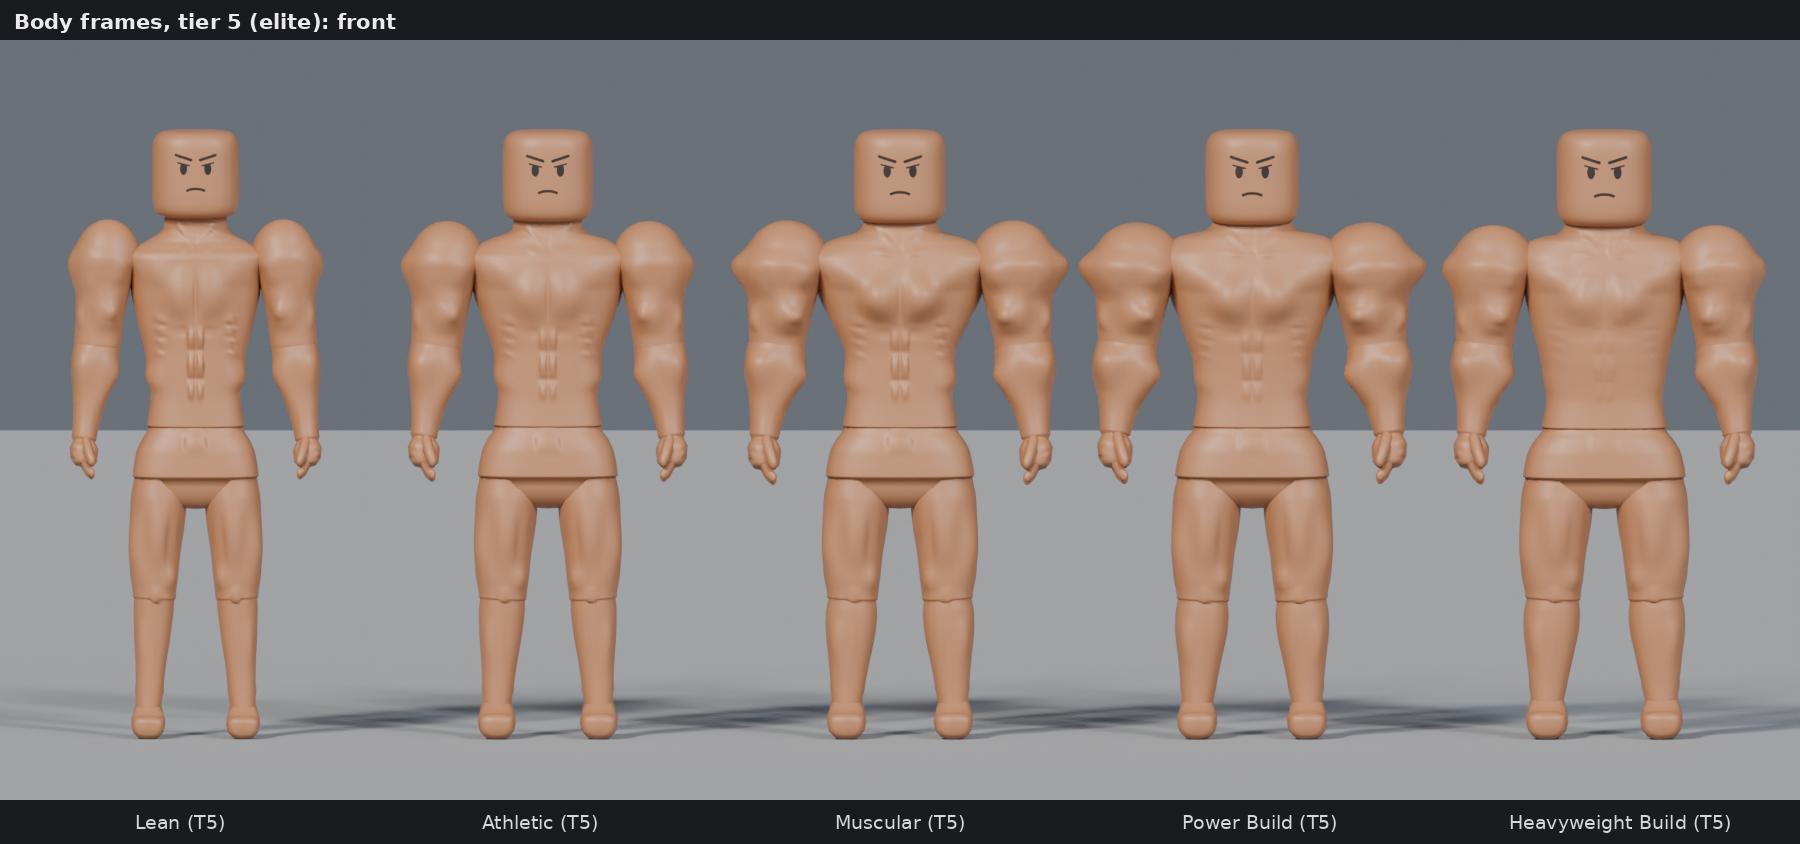
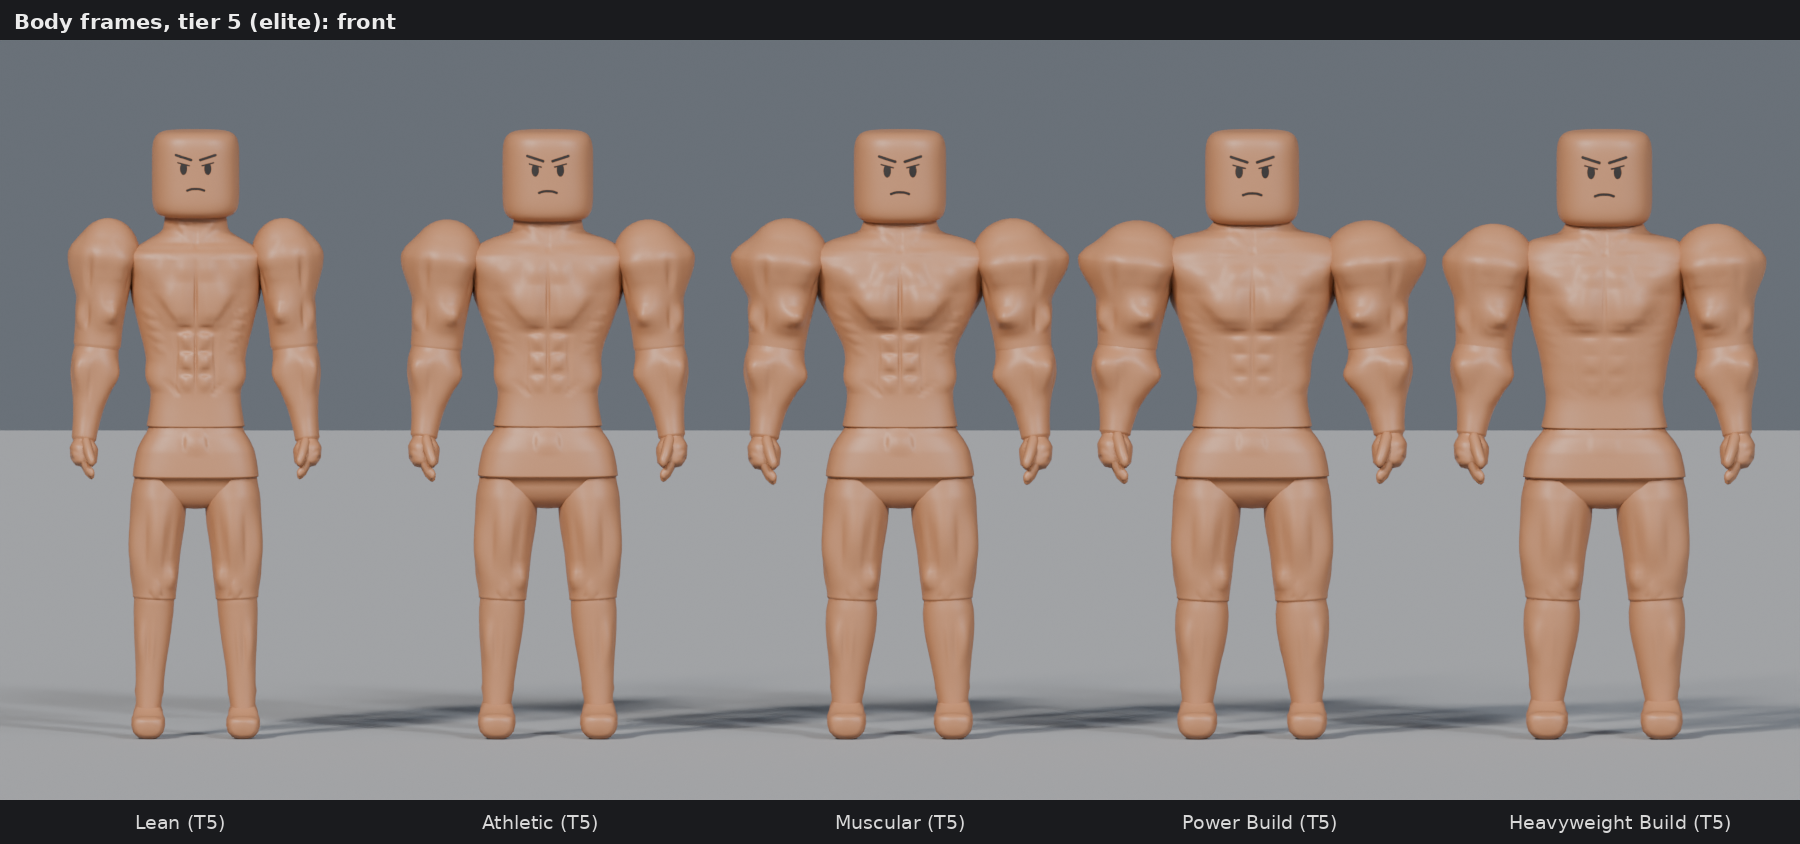
Muscle definition pass: grooves wide enough to shade, three-head delts, six-pack, calf diamond
Separations were narrower than the mesh's vertex spacing, so they barely
shaded; grooves now span at least 1.2 segments and run deeper, abs and
chest spread to the torso's real width. Chest, shoulders (three heads,
fixed squared cap), arms (biceps peak, triceps horseshoe, forearm
ridges), torso (six-pack plate, serratus, obliques), back (lat V, spine
groove, infraspinatus/teres) and legs (teardrop, hamstring split, calf
diamond) by tier and frame. 229 meshes uploaded and approved; 29.7k
tris per body.

Claude-Session: https://claude.ai/code/session_01HNk7DeEaHDaKo3zPgaW9Pz

diff --git a/world-class-boxer/previews/final/v10/bodies/muscles/README.md b/world-class-boxer/previews/final/v10/bodies/muscles/README.md
@@ -1,0 +1,16 @@
+# Muscle definition pass (v14)
+
+Geometry only (no texture on the body parts); see tools/body/CONTRACT.md "Muscle definition (v14)".
+
+| sheet | what |
+|---|---|
+| `compare_chest_t5.png` | chest + delts front, Lean / Muscular / Power Build tier 5, before (top) over after |
+| `compare_back_t5.png` | back, before / after |
+| `compare_arms_t5.png` | right arm, outer side (before / after) then back (before / after) |
+| `compare_legs_t5.png` | legs front (before / after) then back (before / after) |
+| `tiers_<chest,back,arms,legs>.png` | the after set at tiers 1 / 3 / 5: definition grows with the tier |
+| `bodies_t<1,3,5>_<front,back,34>.jpg` | the five frames as the game builds them (gear on), game distance |
+| `bare_t<1,5>_<front,back,34>.png` | the five frames bare (build_body.py's stage) |
+
+Made with `build_body.py --sheets muscles --tiers 1,3,5 --frames lean,muscular,power --muscle-tag before|after`
+(before = the v13 code), `compose_muscles()`, `frames_anim.luau --tiers 1,3,5` + `render_frames.py`.
